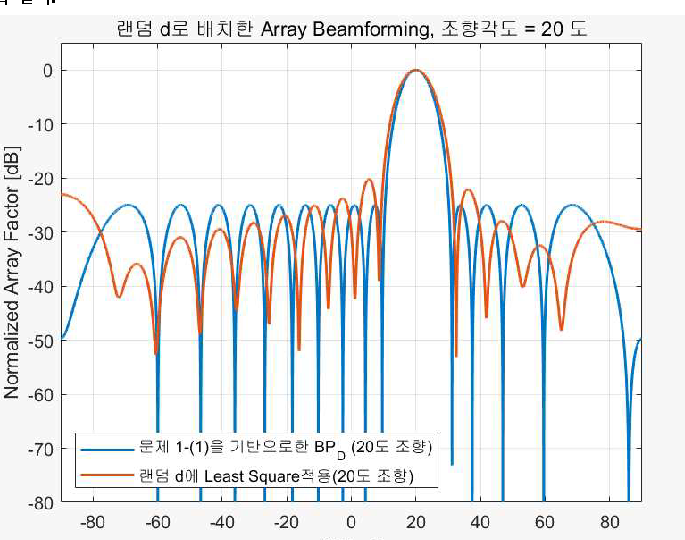
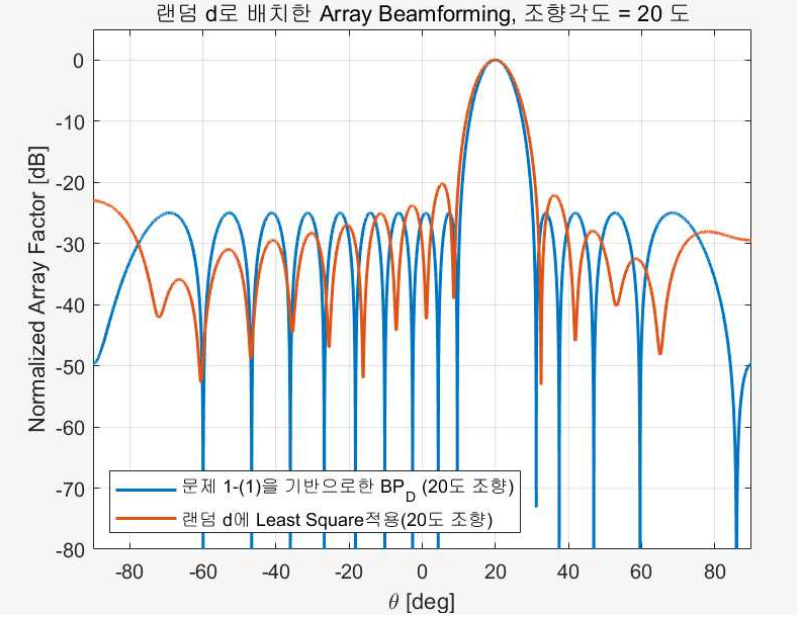
Add files via upload

diff --git a/README.md b/README.md
@@ -2,6 +2,10 @@
 
 > MATLAB 기반 ULA 빔패턴 형성, 빔 조향 및 비등간격 배열의 Least Squares 가중치 보상 분석
 
+![MATLAB](https://img.shields.io/badge/MATLAB-Array%20Processing-orange?logo=mathworks&logoColor=white)
+![Topic](https://img.shields.io/badge/Topic-Smart%20Antenna-blue)
+![Method](https://img.shields.io/badge/Method-Chebyshev%20%7C%20Least%20Squares-success)
+
 ## Overview
 
 스마트안테나 교과 과제에서 15소자 ULA(Uniform Linear Array)를 대상으로 배열 가중치와 소자 배치가 빔패턴에 미치는 영향을 MATLAB으로 분석했습니다. 기준 배열의 Chebyshev 빔패턴을 생성한 뒤, 빔 조향과 비등간격 배열 조건에서도 목표 패턴에 가깝게 만드는 가중치 계산 과정을 비교했습니다.
@@ -46,19 +50,17 @@ Reference and compensated beam pattern comparison
 
 15소자, 반파장 간격 배열에서 Chebyshev 가중치를 적용해 기준 빔패턴을 생성했습니다. 주엽을 0 dB로 정규화하고 부엽 수준을 확인했습니다.
 
-![Chebyshev beam pattern](assets/chebyshev_beam_pattern.png)
-
 ### 2. Least Squares Compensation for Non-uniform Array
 
 랜덤한 소자 간격으로 구성한 배열에 대해 steering matrix를 만들고, 기준 Chebyshev 패턴과의 오차 제곱합이 작아지도록 Least Squares 가중치를 계산했습니다. 주엽의 위치와 형상은 기준 패턴에 가깝게 유지되지만, 비등간격 배치 특성으로 부엽 영역에는 차이가 남는 것을 확인했습니다.
 
-![Least Squares compensation result](assets/least_squares_compensation.png)
+<img src="assets/least_squares_compensation.png" alt="Least Squares compensation result" width="560" />
 
 ### 3. Beam Steering at 20°
 
 학생번호 끝자리 조건에 따라 20° 조향을 적용하고, 비등간격 배열에서도 동일 방향의 빔패턴을 목표로 Least Squares 가중치를 계산했습니다.
 
-![20 degree steering result](assets/beam_steering_20deg.png)
+<img src="assets/beam_steering_20deg.png" alt="20 degree steering result" width="560" />
 
 ## Repository Structure
 
